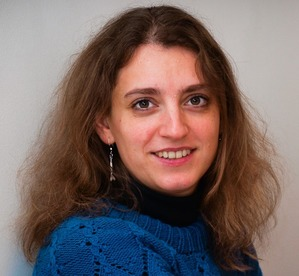
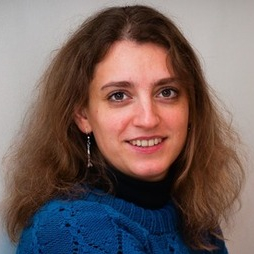
Add Nitin's changes, fix Margot's image

diff --git a/_sass/minimal-mistakes/_sidebar.scss b/_sass/minimal-mistakes/_sidebar.scss
@@ -63,7 +63,7 @@
 
   img {
     width: 100%;
-    
+
     &.emoji {
       width: 20px;
       height: 20px;
@@ -119,6 +119,8 @@
   vertical-align: top;
   width: 36px;
   height: 36px;
+  overflow: hidden;
+  border-radius: 50%;
 
   @include breakpoint($large) {
     display: block;
@@ -129,6 +131,8 @@
   img {
     max-width: 110px;
     border-radius: 50%;
+    object-fit: cover;
+    object-position: center;
 
     @include breakpoint($large) {
       padding: 5px;
@@ -315,4 +319,3 @@
     margin-right: initial;
   }
 }
-

diff --git a/_includes/committee-member.html b/_includes/committee-member.html
@@ -29,7 +29,12 @@
       <p class="author__bio" itemprop="description">
         {{ include.institution }}
       </p>
-      <p class="author__bio" itemprop="description">{{ include.email }}</p>
+      <a
+        href="mailto:{{ include.email }}"
+        class="author__bio"
+        itemprop="description"
+        >📧 {{ include.email }}</a
+      >
     </div>
   </div>
 </div>

diff --git a/_pages/contact.md b/_pages/contact.md
@@ -8,4 +8,4 @@ toc_sticky: false
 ---
 
 If you have questions about this site, or the project, [send us an
-email!](mailto:arr-dc@acl.org?subject=ARR-DC%20Inquiry)
+email!](mailto:arr-data@aclweb.org?subject=ARR-DC%20Inquiry)
